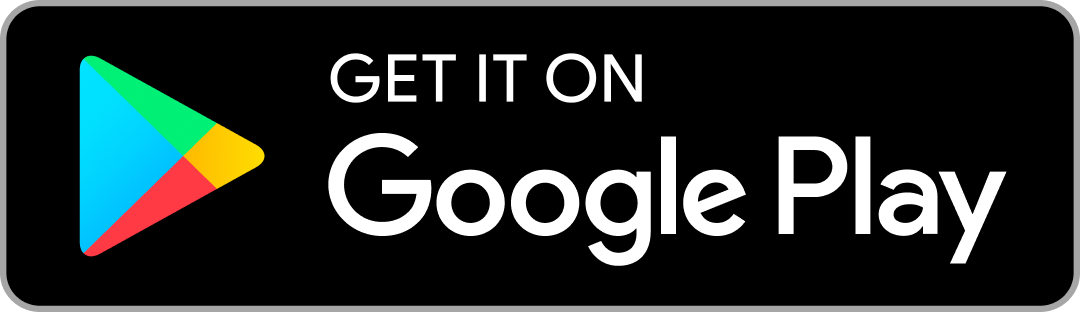
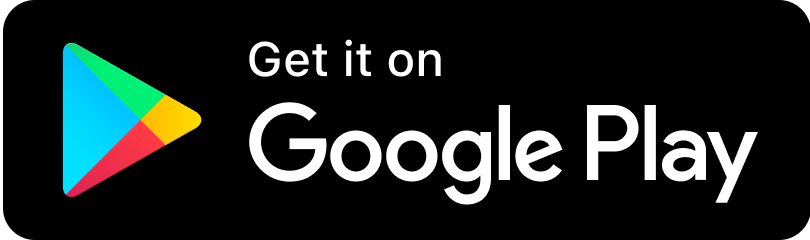
feat: added dpm page + some fixes

diff --git a/sections/dpm/DpmSection.tsx b/sections/dpm/DpmSection.tsx
@@ -4,7 +4,6 @@ import Image from "next/image"
 import dpmHandAndPhone from "@/public/dpmHandAndPhone.png"
 import dpmIOSBanner from "@/public/dpmIOSBanner.png"
 import dpmGooglePlayBanner from "@/public/dpmGooglePlayBanner.png"
-import StoreButton from "@/components/DPM/StoreButton"
 
 const DpmSection = () => {
   const { t } = useTranslation("dpm")
@@ -17,36 +16,24 @@ const DpmSection = () => {
           alt="Hand"
           priority={true}
         />
-
         <div className="md:max-w-[600px] lg:max-w-[600px] lg:ml-[100px] xl:max-w-[1047px]">
           <h2 className="md:tracking-[0.0015em] tracking-[-0.015em] font-semibold text-[44px] md:text-[56px] text-desmos-black-light mb-[32px] break-after-column">
             {t("dpmPageTitle")}
           </h2>
-          <div className="tracking-[0.03px] font-[400] text-desmos-black-light text-[14px] md:text-[20px] ">
-            <Trans
-              i18nKey={"pageDescription"}
-              t={t}
-              components={{
-                bold: <span className="font-[600]" />,
-              }}
-            />
-          </div>
-
+          <p className="md:tracking-[0.0015em] tracking-[-0.015em] text-desmos-black-light text-[14px] md:text-[20px] ">
+            {t("pageDescription")}
+          </p>
           <div className="hidden lg:flex lg:flex-1 lg:flex-row lg:mt-[46px]">
-            <StoreButton
-              buttonClass={"w-[203px] h-[60px]"}
-              buttonAlt={"IOS Download"}
-              buttonImage={dpmIOSBanner}
-              buttonLink={"https://apps.apple.com/us/app/brows/id1593594950"}
+            <Image
+              className="w-[203px] h-[60px]"
+              src={dpmIOSBanner}
+              alt="IOS Download"
             />
             <div className="pb-[26px] md:pr-[24px]" />
-            <StoreButton
-              buttonClass={"w-[203px] h-[60px]"}
-              buttonAlt={"Google Play Download"}
-              buttonImage={dpmGooglePlayBanner}
-              buttonLink={
-                "https://play.google.com/store/apps/details?id=network.desmos.dpm"
-              }
+            <Image
+              className="w-[203px] h-[60px]"
+              src={dpmGooglePlayBanner}
+              alt="Google Play Download"
             />
           </div>
         </div>
@@ -60,20 +47,16 @@ const DpmSection = () => {
       <div className="flex flex-1 items-center flex-col lg:hidden">
         <Image className="md:hidden" src={dpmHandAndPhone} alt="Hand" />
         <div className="pb-20 pt-[28px] md:flex flex-1 flex-row">
-          <StoreButton
-            buttonClass={"w-[180px]  md:w-[203px] md:h-[60px]"}
-            buttonAlt={"IOS Download"}
-            buttonImage={dpmIOSBanner}
-            buttonLink={"https://apps.apple.com/us/app/brows/id1593594950"}
+          <Image
+            className="w-[180px]  md:w-[203px] md:h-[60px]"
+            src={dpmIOSBanner}
+            alt="IOS Download"
           />
           <div className="pb-[26px] md:pr-[24px]" />
-          <StoreButton
-            buttonClass={"w-[180px] md:w-[203px] md:h-[60px]"}
-            buttonAlt={"Google Play Download"}
-            buttonImage={dpmGooglePlayBanner}
-            buttonLink={
-              "https://play.google.com/store/apps/details?id=network.desmos.dpm"
-            }
+          <Image
+            className="w-[180px] md:w-[203px] md:h-[60px]"
+            src={dpmGooglePlayBanner}
+            alt="Google Play Download"
           />
         </div>
       </div>

diff --git a/layouts/MainLayout.tsx b/layouts/MainLayout.tsx
@@ -12,20 +12,10 @@ export interface MainLayoutProps {
   readonly pageRoute: string
   readonly footerBackground?: string
   readonly children: React.ReactNode
-  readonly privacyPathOverride?: string
-  readonly tosPathOverride?: string
 }
 
 const MainLayout = (props: MainLayoutProps) => {
-  const {
-    title,
-    description,
-    pageRoute,
-    footerBackground,
-    children,
-    tosPathOverride,
-    privacyPathOverride,
-  } = props
+  const { title, description, pageRoute, footerBackground, children } = props
 
   const [isHydrated, setIsHydrated] = useState(false)
   const [isMobile, , , , isBreakpointReady] = useBreakpoints()
@@ -54,7 +44,7 @@ const MainLayout = (props: MainLayoutProps) => {
   })
 
   // Compute the proper page title and URL
-  const pageTitle = title
+  const pageTitle = title.includes("Desmos") ? title : `Desmos ${title}`
 
   return (
     <>
@@ -72,38 +62,34 @@ const MainLayout = (props: MainLayoutProps) => {
         pageRoute={pageRoute}
       />
       {/* Main content */}
-      {isHydrated && (
-        <>
-          <div className={`relative mx-auto w-full min-w-[375px]`}>
-            <div
-              className={`fixed top-0 w-full ${
-                navbarBgVisible ? "bg-desmos-background-primary" : "bg-none"
-              }  z-20`}
-            >
-              <div className="relative w-full min-w-[375px] max-w-[1920px] left-1/2 -translate-x-1/2">
-                <NavigationBar />
-              </div>
+      <>
+        <div className={`relative mx-auto w-full min-w-[375px]`}>
+          <div
+            className={`fixed top-0 w-full ${
+              navbarBgVisible ? "bg-desmos-background-primary" : "bg-none"
+            }  z-20`}
+          >
+            <div className="relative w-full min-w-[375px] max-w-[1920px] left-1/2 -translate-x-1/2">
+              <NavigationBar />
             </div>
-            <main className="w-full">{children}</main>
+          </div>
+          <main className="w-full">{children}</main>
+          <div
+            className={`relative w-full ${
+              footerBackground || "bg-desmos-background-primary"
+            } bg-no-repeat`}
+          >
             <div
-              className={`relative w-full ${
+              className={`relative left-1/2 -translate-x-1/2 w-full min-w-[375px] max-w-[1920px] ${
                 footerBackground || "bg-desmos-background-primary"
               } bg-no-repeat`}
             >
-              <div
-                className={`relative left-1/2 -translate-x-1/2 w-full min-w-[375px] max-w-[1920px] ${
-                  footerBackground || "bg-desmos-background-primary"
-                } bg-no-repeat`}
-              >
-                <Footer
-                  privacyPathOverride={privacyPathOverride}
-                  tosPathOverride={tosPathOverride}
-                />
-              </div>
+              <Footer />
             </div>
           </div>
-        </>
-      )}
+        </div>
+      </>
+      )
     </>
   )
 }

diff --git a/pages/dpm.tsx b/pages/dpm.tsx
@@ -18,8 +18,6 @@ const Dpm = () => {
       title={t("pageTitle")}
       description={t("pageDescription")}
       pageRoute="/dpm"
-      privacyPathOverride={"/dpm/privacy"}
-      tosPathOverride={"/dpm/terms"}
     >
       <DpmSection />
     </MainLayout>
